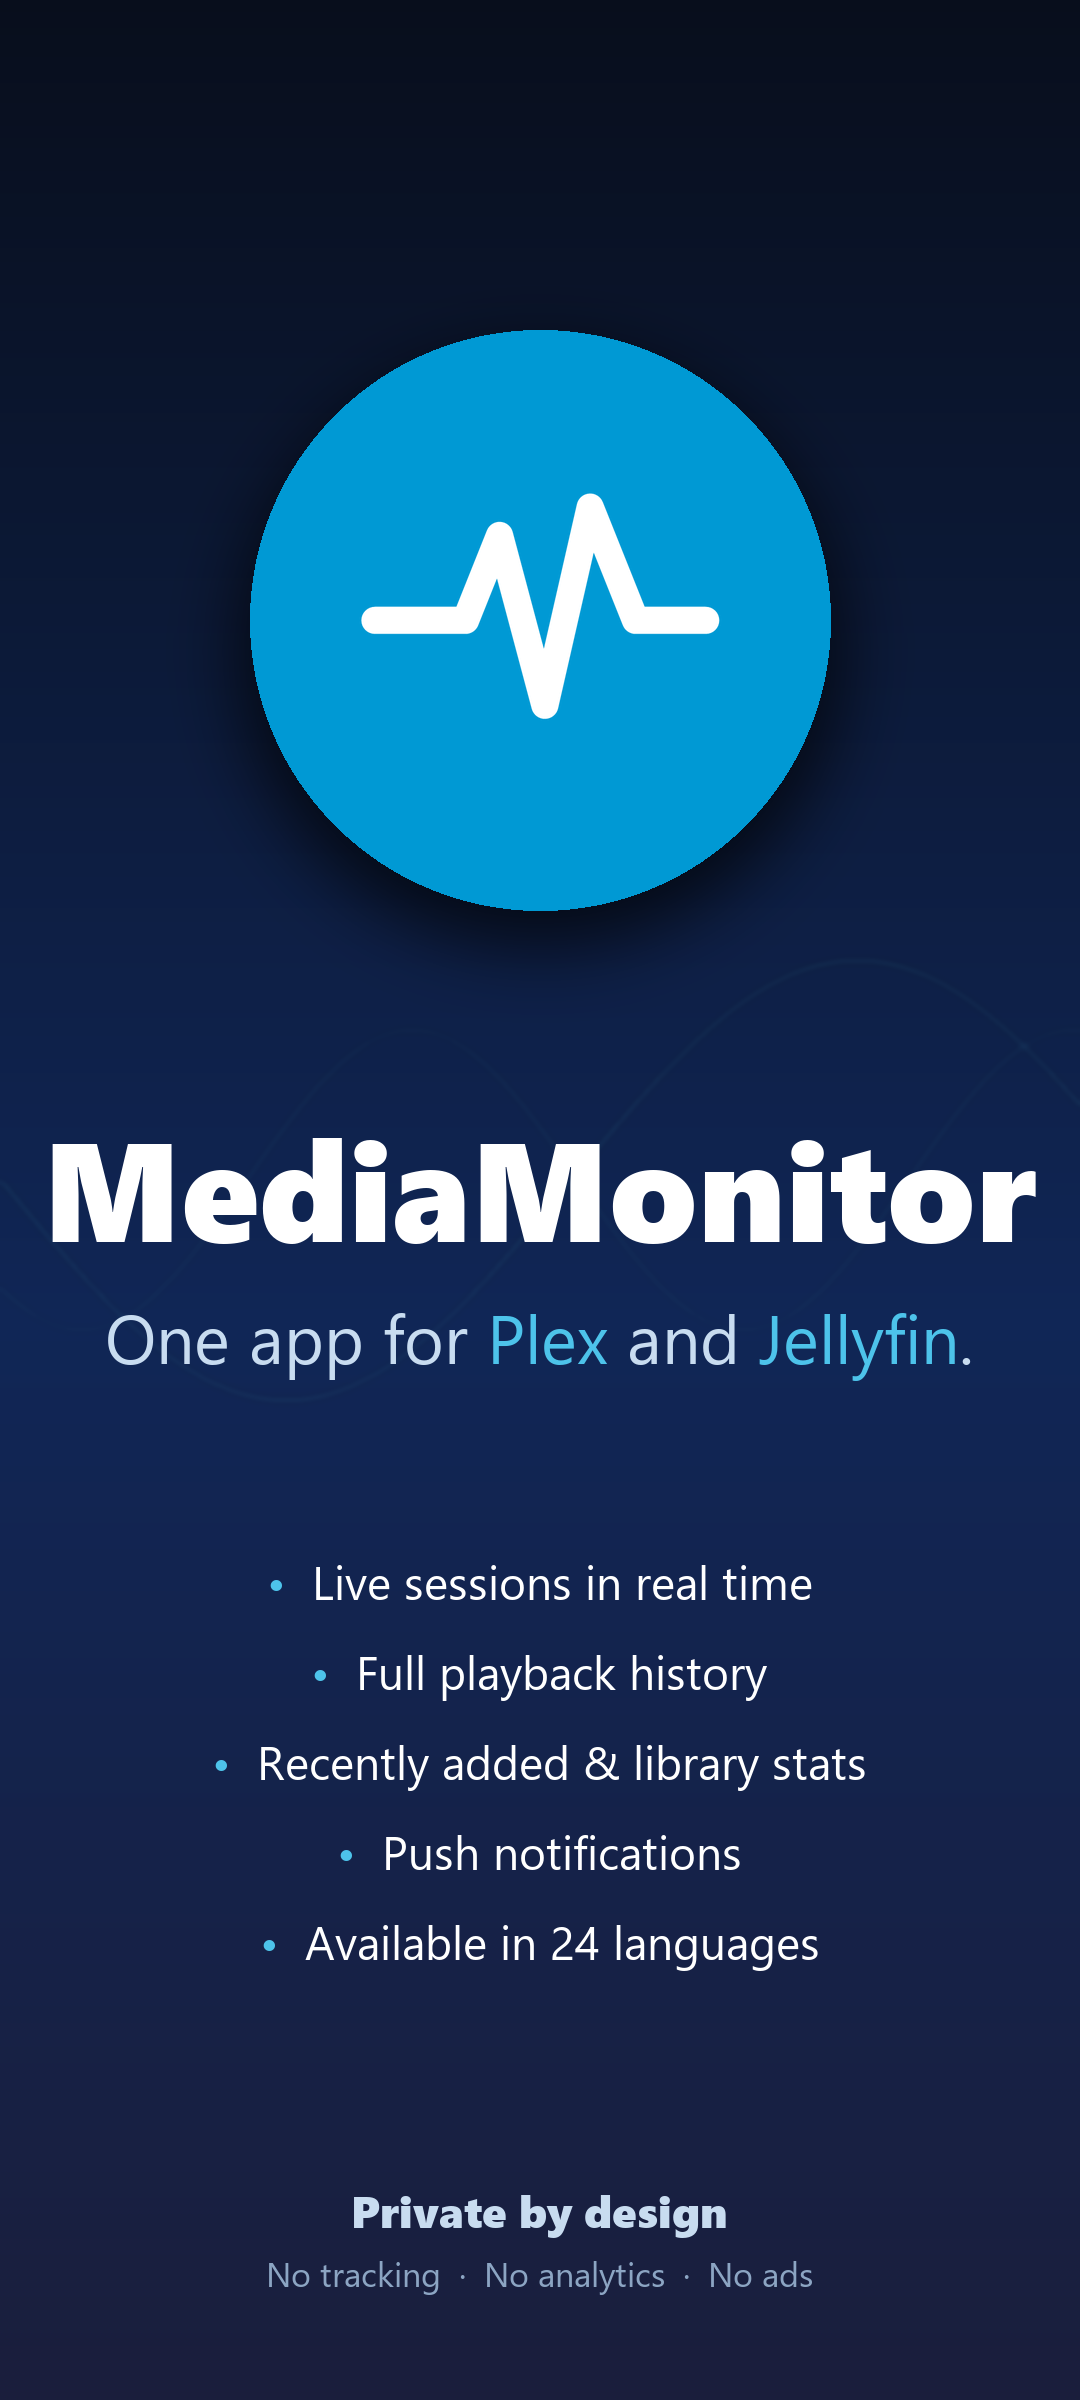
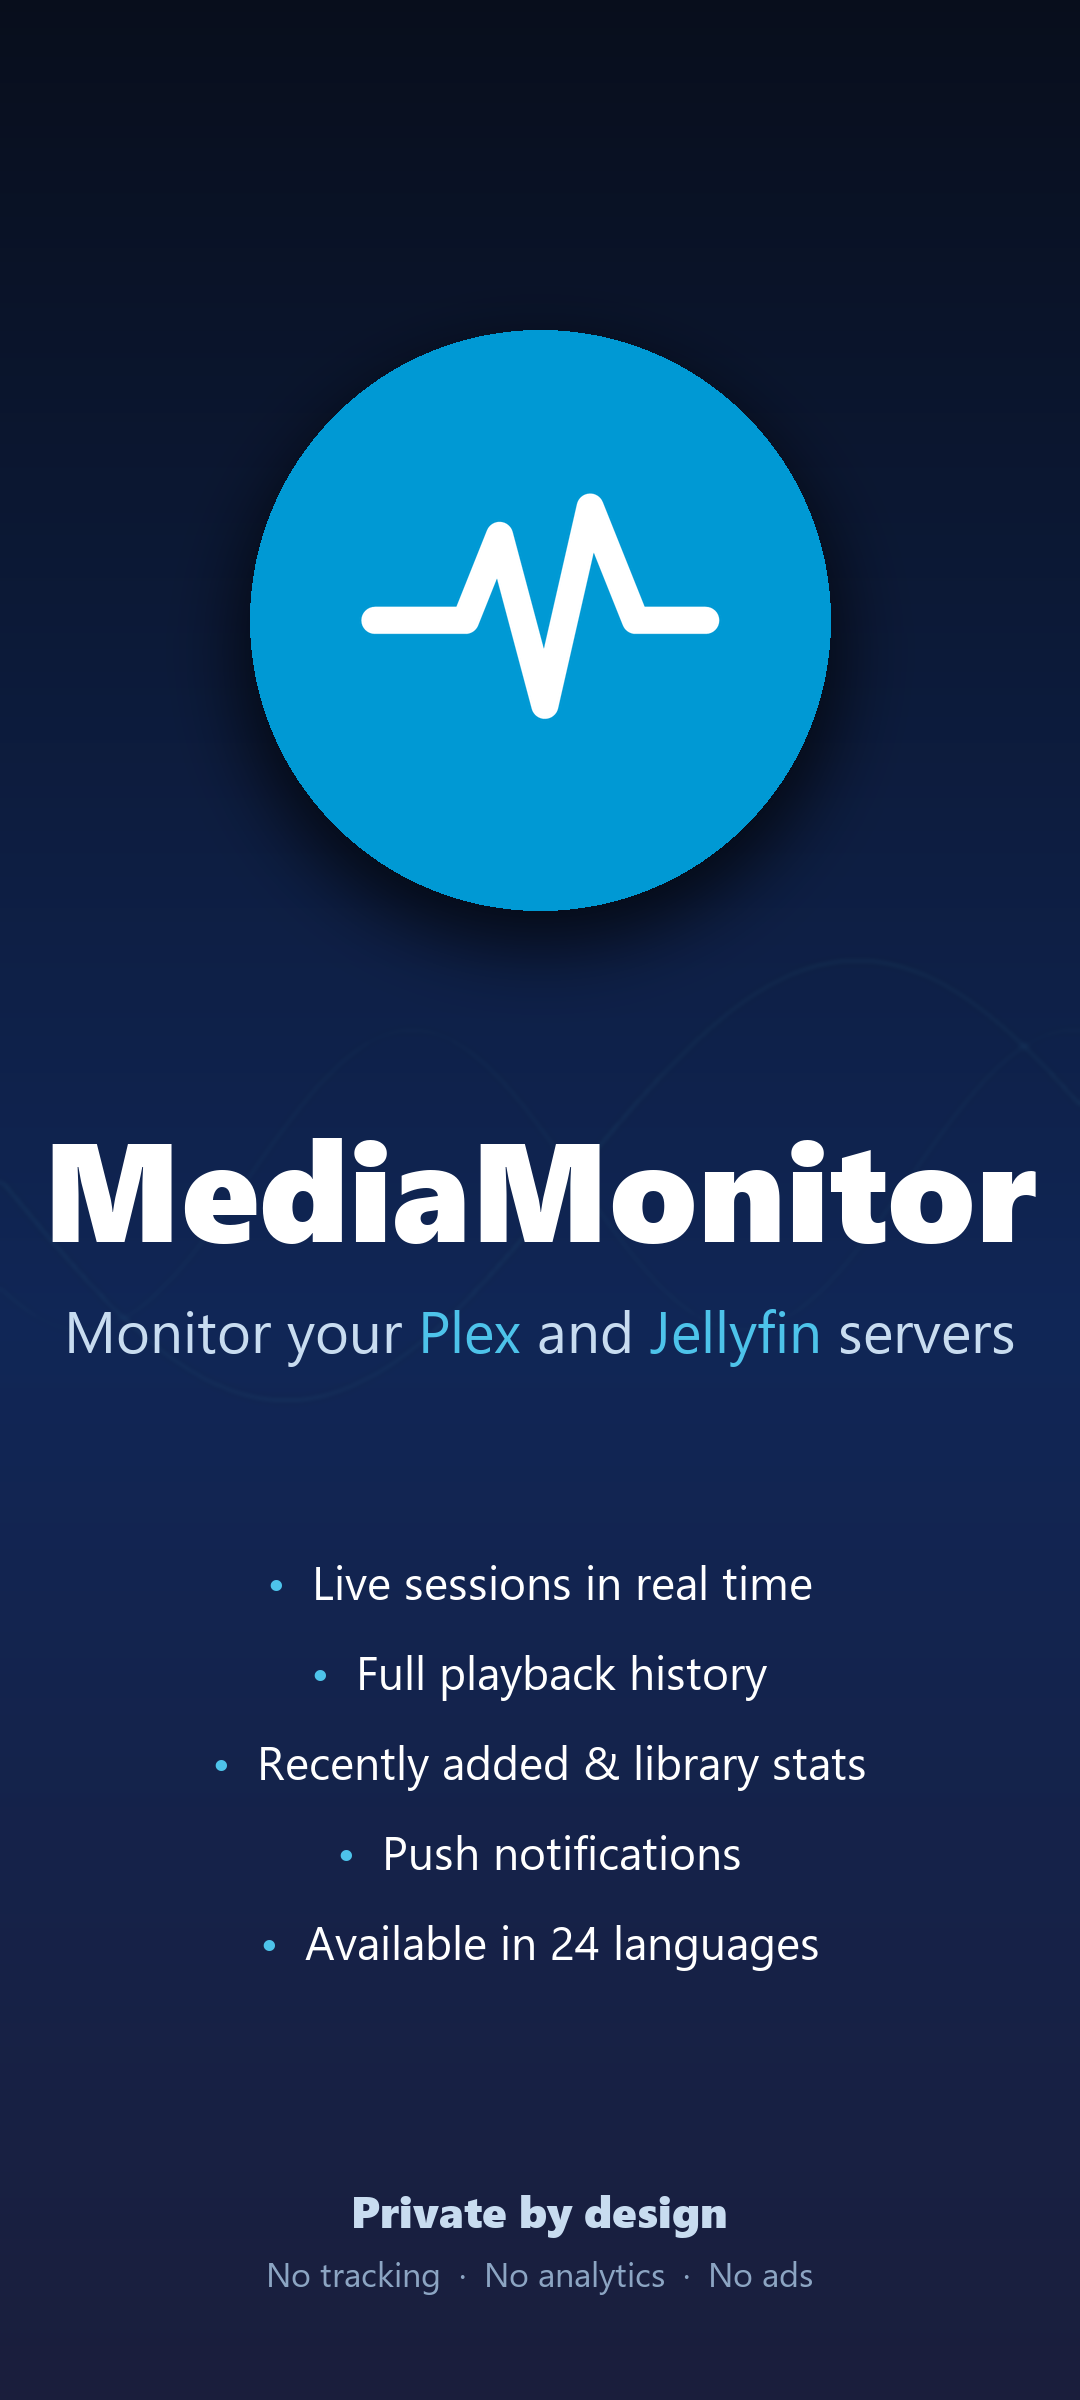
docs: clarify that MediaMonitor is a monitor, not a media server
The previous taglines ("Plex and Jellyfin in one app", "One app for
Plex and Jellyfin") could be misread as if MediaMonitor replaced the
servers. Adjusted to make it explicit that the app reads from the
existing Plex and Jellyfin servers without streaming, transcoding or
hosting anything.

- README: rewrote intro and Highlights to spell out the read-only,
  no-backend nature; replaced "libraries" with "library stats".
- Feature graphic: tagline now "Monitor your Plex and Jellyfin
  servers".
- Cover screenshot: tagline now "Monitor your Plex and Jellyfin
  servers" instead of "One app for Plex and Jellyfin.".

Changed region(s): [[0.0611, 0.5312, 0.9167, 0.5938]]

diff --git a/README.md b/README.md
@@ -1,6 +1,6 @@
 # MediaMonitor
 
-A native Android app to monitor your **Jellyfin** and **Plex** media servers from your phone — sessions, playback history, what's new in your libraries, and optional background notifications. Multi-account, fully local, no telemetry.
+A native Android app to monitor your **Plex** and **Jellyfin** media servers from your phone — sessions, playback history, library stats, and optional background notifications. Read-only companion to the servers you already run, no extra service to deploy, no cloud, no account.
 
 [![Platform](https://img.shields.io/badge/platform-Android%207%2B-3DDC84)]()
 [![Languages](https://img.shields.io/badge/i18n-24%20languages-orange)]()
@@ -9,12 +9,14 @@ A native Android app to monitor your **Jellyfin** and **Plex** media servers fro
 
 ## Highlights
 
-- **Multi-account** — Connect any number of Jellyfin and/or Plex servers, side by side
-- **Real-time sessions** — Who's watching what, where, with full format / transcoding details
+- **Monitor Plex and Jellyfin from one app** — Sessions, history and library stats from both ecosystems in a single read-only interface (the app does not stream, transcode or replace your servers)
+- **No extra service to deploy** — The app talks directly to the Plex and Jellyfin servers you already run. No backend service of mine, no companion dashboard to host, no cloud, no account on my side
+- **Multi-account** — Connect any number of Plex and/or Jellyfin servers
+- **Real-time sessions** — Who's watching what, where, with full format and transcoding details
 - **History** — Unified, paginated, filterable, with detail sheets
 - **Recently added** — Movies, episodes and shows across all servers
 - **Notifications** *(opt-in)* — Background polling, three event types, per-server filtering
-- **Privacy-first** — Tokens encrypted via Android Keystore; IP geo lookup is 100% offline
+- **Privacy-first** — Tokens encrypted via Android Keystore; IP geo lookup is 100% offline; no telemetry
 - **24 languages** — Including RTL (Arabic, Hebrew)
 
 ## Install
